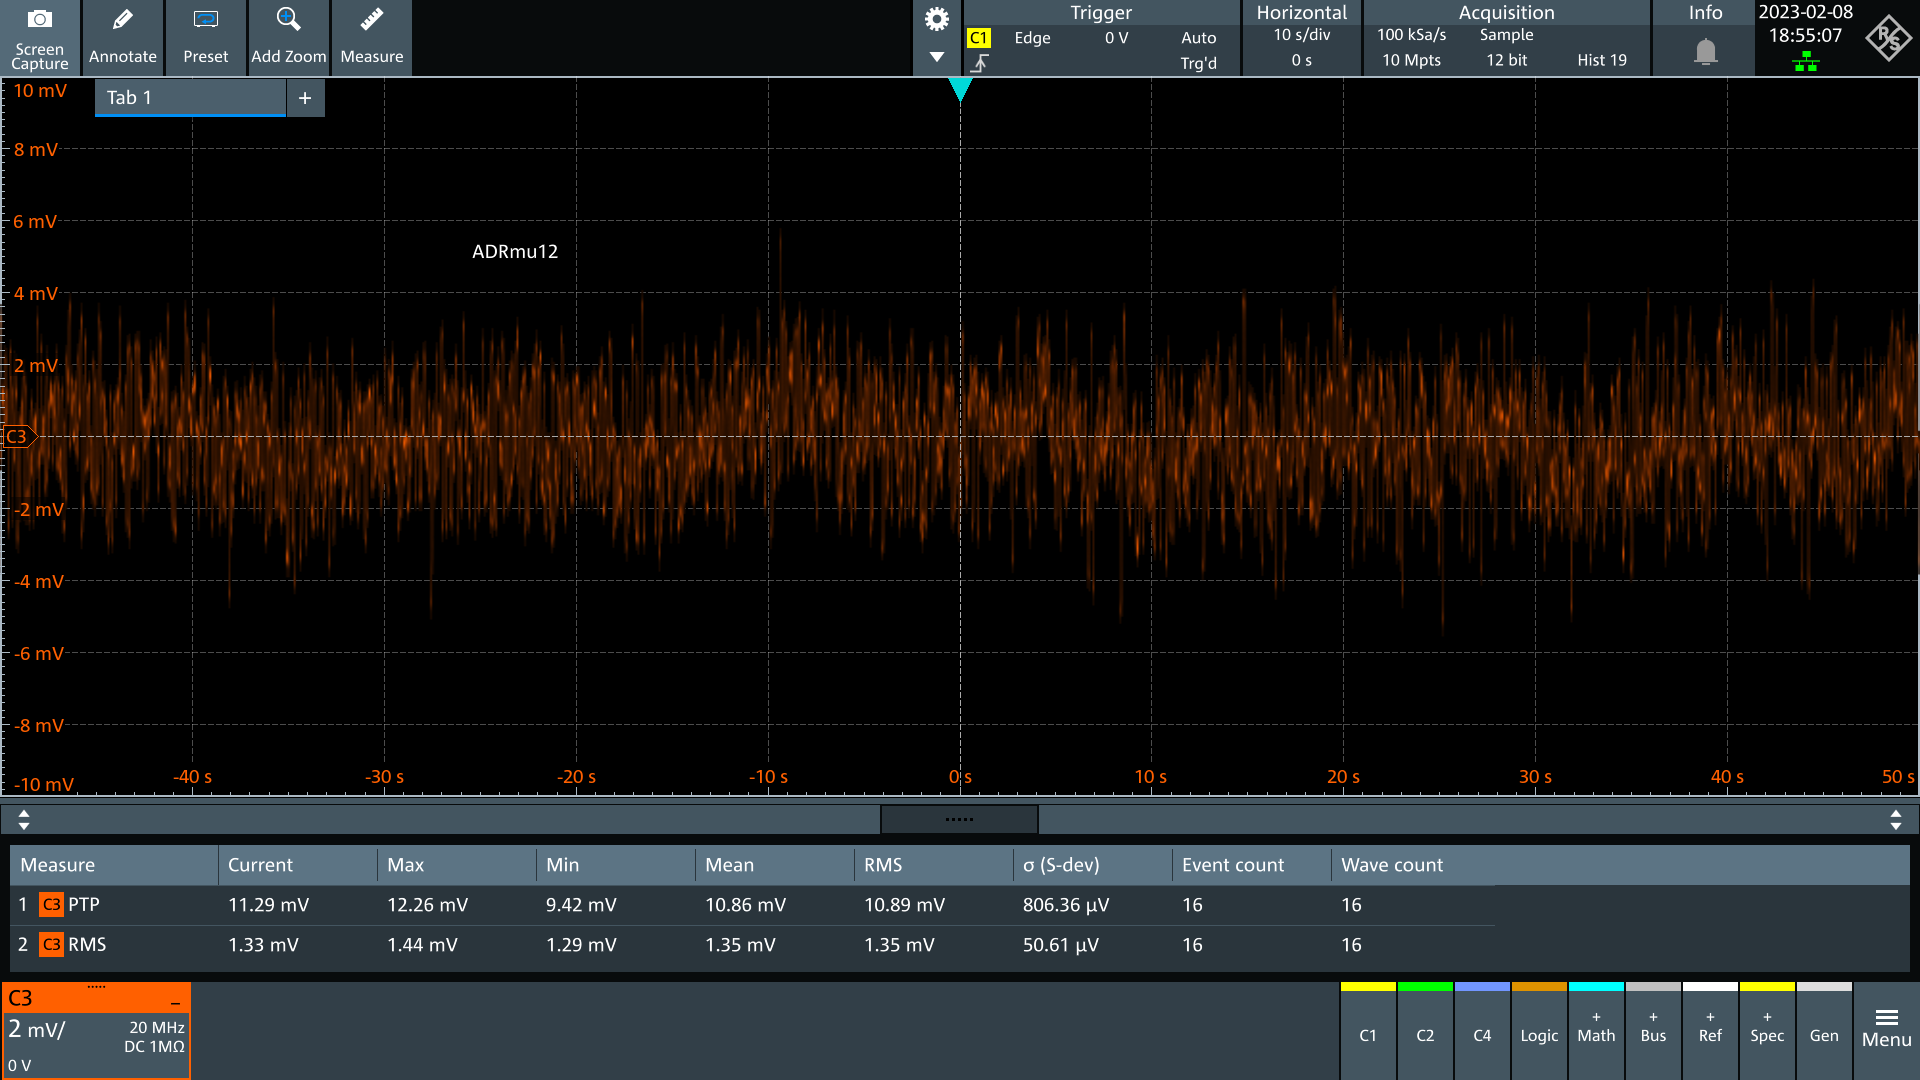
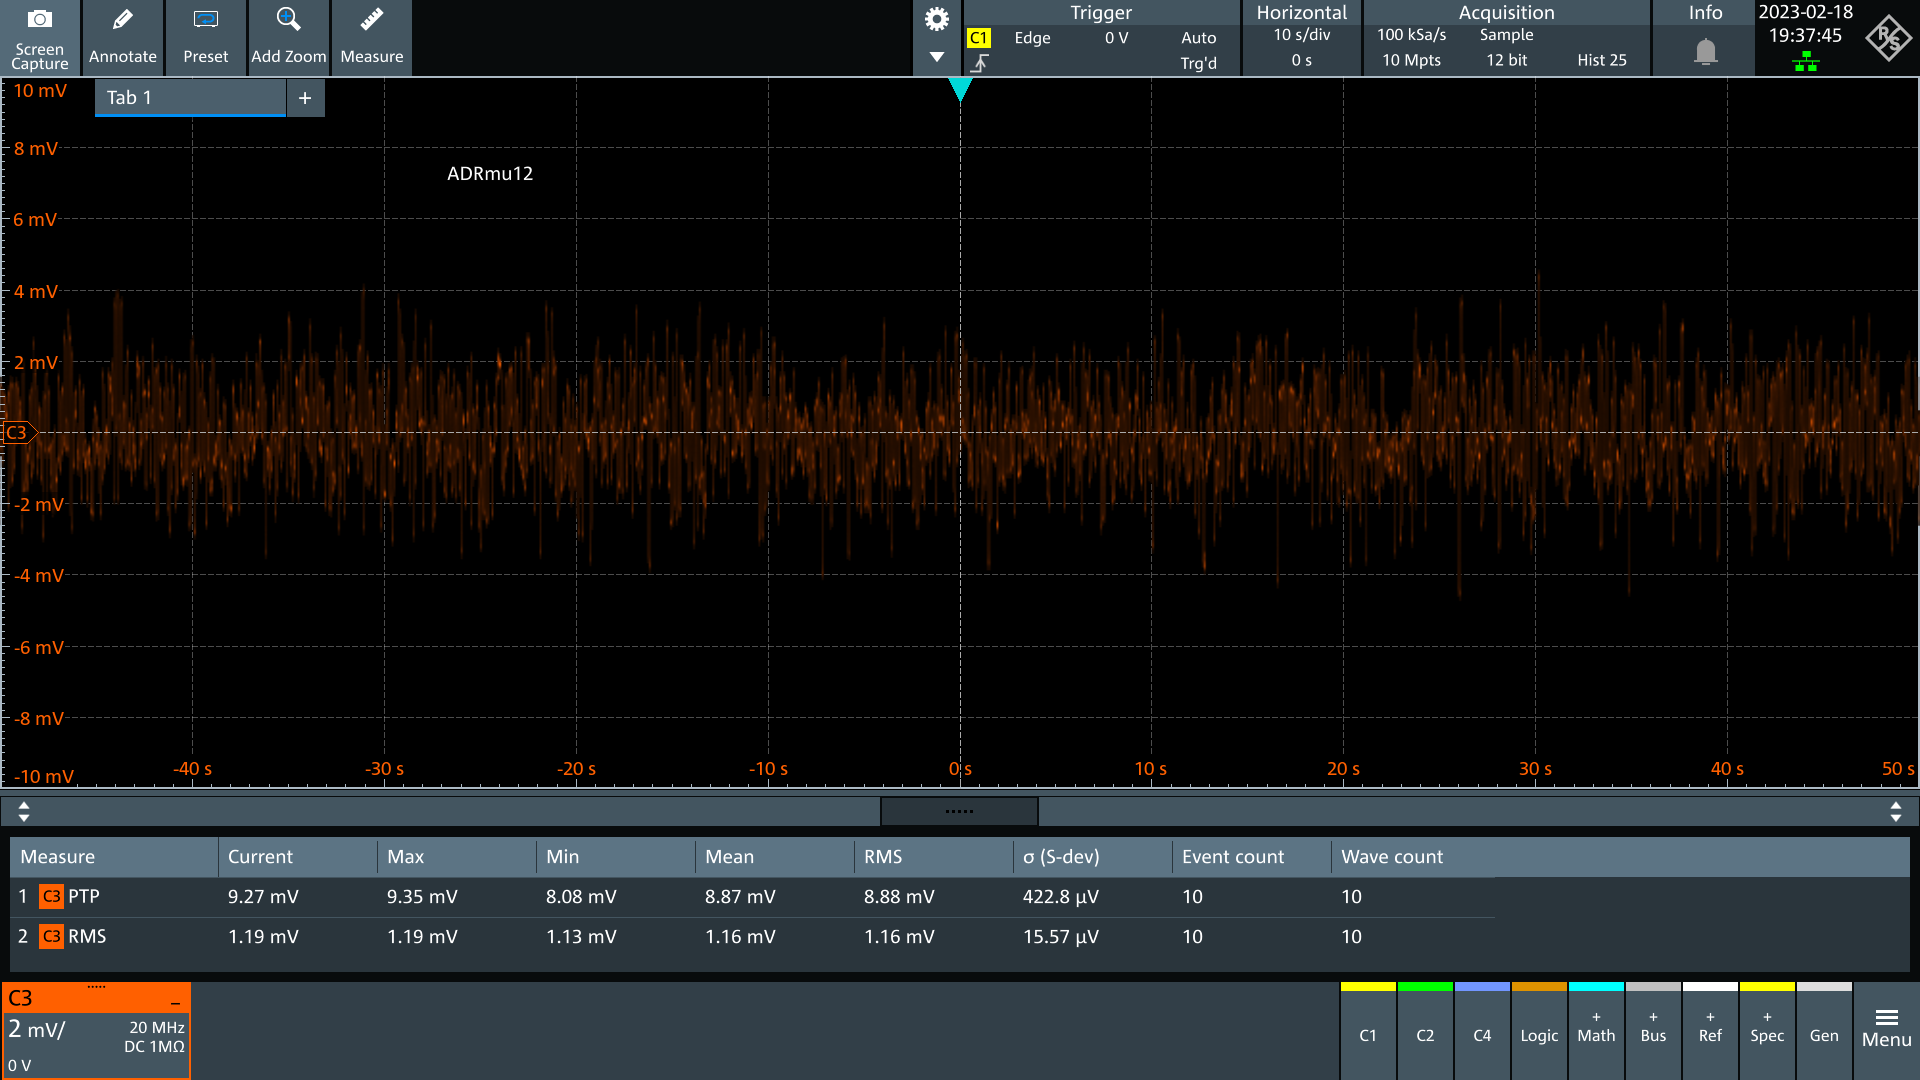
Remade all 0.1 ... 10 Hz noise tests with new preamp

diff --git a/README.md b/README.md
@@ -67,19 +67,20 @@ Output can be shorted indefinitely with battery life derating. Output protected 
 | SN  | U202 | .1-10Hz Noise  | Tempco 15-35°C  |  24h Stab  |  30d Stab  |  90d Stab  |  1yr Stab  |
 | --- | ---- | -------------- | --------------- | ---------- | ---------- | ---------- | ---------- |
 |     |      | \[µV/V rms\]   | \[µV/V/k\]      | \[µV/V\]   | \[µV/V\]   | \[µV/V\]   | \[µV/V\]   |
-|   1 | ADR  | [0.0179][1]    |                 | 0.25       | 0.4        |            |            |
-|   2 | LTZ  | [0.0189][2]    |                 |            |            |            |            |
-|   3 | LTZ  | [0.0247][3]    | [-0.024][3tc]   |            |            |            |            |
+|   1 | ADR  | [0.0139][1]    |                 | 0.25       | 0.4        |            |            |
+|   2 | LTZ  | [0.0175][2]    |                 |            |            |            |            |
+|   3 | LTZ  | [0.0201][3]    | [-0.024][3tc]   |            |            |            |            |
 |   4 | ADRx | [0.0346][4]    | [-0.133][4tc]   |            |            |            |            |
-|   5 | ADR  | [0.0134][5]    | [+0.015][5tc]   |            |            |            |            |
-|   7 | ADR  | [0.0157][7]    | [+0.032][7tc]   |            |            |            |            |
-|   9 | ADR  | [0.0147][9]    | [+0.156][9tc]   |            |            |            |            |
-| 107 | ADR  | [0.0242][107]  | [+0.049][107tc] |            |            |            |            |
-| 108 | ADR  |                | [+0.030][108tc] |            |            |            |            |
-|  10 | ADR  |                | [-0.028][10tc]  |            |            |            |            |
-|  11 | ADR  |                | [+0.015][11tc]  |            |            |            |            |
-|  12 | ADR  | [0.0135][12]   |                 |            |            |            |            |
-|  13 | ADR  |                | [-0.024][13tc]  |            |            |            |            |
+|   5 | ADR  | [0][5]         | [+0.015][5tc]   |            |            |            |            |
+|   7 | ADR  | [0.0125][7]    | [+0.032][7tc]   |            |            |            |            |
+|   9 | ADR  | [0.0121][9]    | [+0.156][9tc]   |            |            |            |            |
+| 107 | ADR  |                | [+0.049][107tc] |            |            |            |            |
+| 108 | ADR  | [0.0163][108]  | [+0.030][108tc] |            |            |            |            |
+|  10 | ADR  | [0.0115][10]   | [-0.028][10tc]  |            |            |            |            |
+|  11 | ADR  | [0.0129][11]   | [+0.015][11tc]  |            |            |            |            |
+|  12 | ADR  | [0.0116][12]   |                 |            |            |            |            |
+|  13 | ADR  | [0.0132][13]   | [-0.024][13tc]  |            |            |            |            |
+|F731B| SZA  | [0.0272][731]  |                 |            |            |            |            |
  
 [1]:/results/ADRmu1_LFnoise.png
 [2]:/results/ADRmu2_LFnoise.png
@@ -89,10 +90,12 @@ Output can be shorted indefinitely with battery life derating. Output protected 
 [7]:/results/ADRmu7_LFnoise.png
 [9]:/results/ADRmu9_LFnoise.png
 [10]:/results/ADRmu10_LFnoise.png
+[11]:/results/ADRmu11_LFnoise.png
 [12]:/results/ADRmu12_LFnoise.png
 [13]:/results/ADRmu13_LFnoise.png
 [107]:/results/ADRmu107_LFnoise.png
 [108]:/results/ADRmu108_LFnoise.png
+[731]:/results/Fluke731B_LFnoise.png
 
 [3tc]:/results/ADRmu3_TC.ipynb
 [4tc]:/results/ADRmu4_TC.ipynb

diff --git a/results/README.md b/results/README.md
@@ -2,7 +2,9 @@
 Click the .ipynb files, Github can display them!
 
 # Low frequency noise
-LFnoise measurements from Feb 2023 were made with a 0.1 ... 10 Hz noise preamp with x10000 gain. This is not accounted for in the oscilloscopes displayed values. Here's a frequency response analaysis of the preamp: https://github.com/RPG-Engineering/RSscope_scripts/blob/main/csv/old_LNA_fra.ipynb
+LFnoise measurements from Feb 2023 were made with a 0.1 ... 10 Hz noise preamp with x10000 gain. This is not accounted for in the oscilloscopes displayed values. Here's a frequency response analaysis of the preamp: https://github.com/RPG-Engineering/RSscope_scripts/blob/main/csv/euler_LNA_fra.ipynb
+
+https://eulerprecision.com/
 
 # ADR1000 theoretical noise
 0.9 µVpp datasheet spec x 1.5 10V buffer gain x 10000 preamp gain
